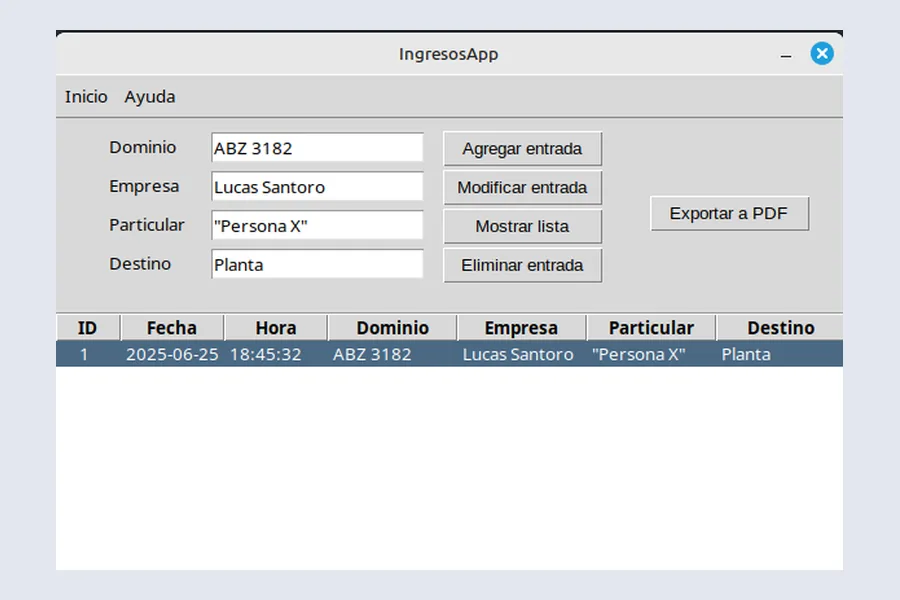
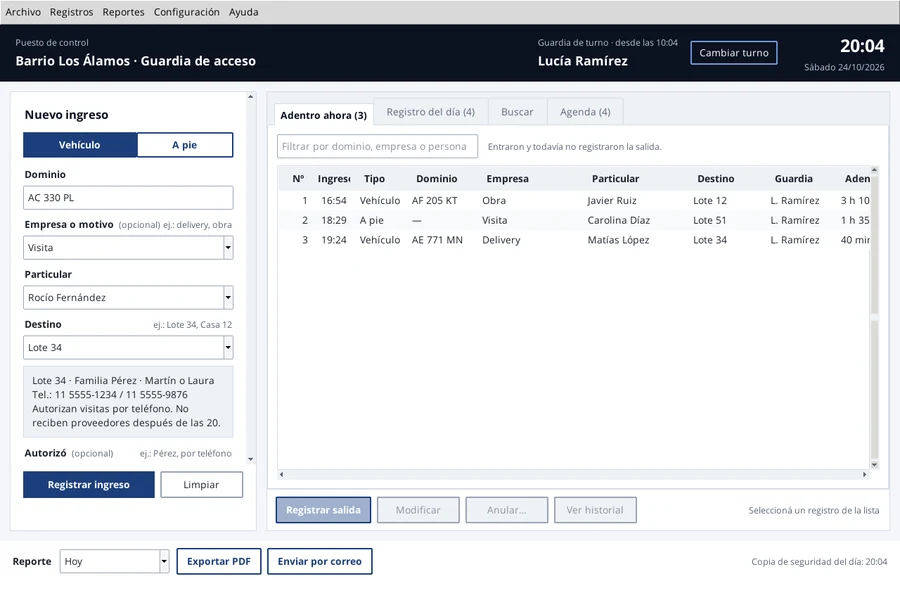
Tarjetas de IngresosApp 2.0, oculto zomboid y texto de Sobre mí

diff --git a/index.html b/index.html
@@ -15,7 +15,7 @@
   <link rel="preconnect" href="https://fonts.googleapis.com" />
   <link rel="preconnect" href="https://fonts.gstatic.com" crossorigin />
   <link href="https://fonts.googleapis.com/css2?family=Open+Sans:wght@300;400;600;700&display=swap" rel="stylesheet" />
-  <link rel="stylesheet" href="styles.css?v=3" />
+  <link rel="stylesheet" href="styles.css?v=4" />
 </head>
 
 <body>
@@ -50,8 +50,8 @@
       <div class="container narrow">
         <h2 id="about-title" class="section-title" data-i18n="about_title">Sobre mí</h2>
         <div class="about-text">
-          <p data-i18n="about_p1">Aprendo tecnología construyendo cosas. La mayor parte de lo que sé viene de proyectos personales: tomo un problema real, armo una solución que funcione, la documento y la sigo mejorando a medida que aprendo.</p>
-          <p data-i18n="about_p2">Hoy estoy enfocado en Python, AWS e infraestructura sobre Linux: desplegar y mantener mis propios servicios, y aprender en el camino las herramientas que los rodean, como Git y Docker.</p>
+          <p data-i18n="about_p1">Aprendo tecnología construyendo cosas. La mayor parte de lo que sé viene de proyectos personales: tomo un problema real, armo una solución funcional, la documento y la sigo mejorando a medida que aprendo.</p>
+          <p data-i18n="about_p2">Hoy estoy enfocado en el cloud computing, sobre todo en AWS, junto con Python y Linux: desplegar y mantener mis propios servicios, y aprender en el camino las herramientas que los rodean, como Git y Docker.</p>
         </div>
       </div>
     </section>
@@ -66,7 +66,8 @@
 
         <div class="project-grid">
 
-          <!-- zomboid-cloud-project -->
+          <!-- zomboid-cloud-project: oculto hasta que el proyecto esté terminado.
+               Para mostrarlo, sacar este comentario y volver a 3 columnas en .project-grid (styles.css).
           <article class="project-card">
             <div class="project-media project-media--placeholder" aria-hidden="true">
               <span>zomboid-cloud-project</span>
@@ -76,39 +77,36 @@
                 <span class="status status--progress" data-i18n="status_progress">En desarrollo</span>
               </div>
               <h3 class="project-title">zomboid-cloud-project</h3>
-              <!-- Descripción y tecnologías: pendientes, a completar cuando el repositorio sea público.
+              [Pendiente: descripción y tecnologías, cuando el repositorio sea público]
               <p class="project-desc"></p>
               <p class="project-tech"><span class="sr-only">Tecnologías: </span></p>
-              -->
               <p class="project-desc project-desc--muted" data-i18n="proj_zomboid_note">Repositorio privado por el momento.</p>
-              <!-- Enlace pendiente:
+              [Pendiente: enlace al repositorio]
               <div class="project-actions">
                 <a class="btn" href="https://github.com/Lucas68747/zomboid-cloud-project" target="_blank" rel="noopener">Repositorio<span class="sr-only"> de zomboid-cloud-project en GitHub</span></a>
               </div>
-              -->
             </div>
           </article>
+          -->
 
           <!-- IngresosApp-Web -->
           <article class="project-card">
             <div class="project-media">
-              <img src="img/projects/ingresosapp-web.webp" alt="Página de inicio de IngresosApp Web, con un carrusel de imágenes y el botón de descarga" width="900" height="600" loading="lazy" decoding="async" />
+              <img src="img/projects/ingresosapp-web.webp" alt="Página de inicio de IngresosApp Web: banner azul noche con la patente V 2.0 y los botones de descarga para Windows y Linux" width="900" height="600" loading="lazy" decoding="async" />
             </div>
             <div class="project-body">
               <div class="project-meta">
-                <span class="status status--progress" data-i18n="status_progress">En desarrollo</span>
+                <span class="status status--done" data-i18n="status_done">Completado</span>
               </div>
               <h3 class="project-title">IngresosApp-Web</h3>
-              <p class="project-desc" data-i18n="proj_web_desc">Sitio web de IngresosApp, con la descarga de la aplicación y su historial de versiones. Desplegado en una instancia EC2 de AWS con Linux, Nginx y Gunicorn.</p>
-              <p class="project-tech"><span class="sr-only">Tecnologías: </span>Python · Flask · Bootstrap · AWS EC2 · Nginx</p>
+              <p class="project-desc" data-i18n="proj_web_desc">Sitio web de IngresosApp, con la descarga de todas las versiones. Empezó en una instancia EC2 de AWS con Nginx y Gunicorn, y lo migré a un sitio estático en GitHub Pages, con dominio propio y DNS en Cloudflare.</p>
+              <p class="project-tech"><span class="sr-only">Tecnologías: </span>HTML · CSS · GitHub Pages · Cloudflare · antes AWS EC2</p>
               <div class="project-actions">
                 <a class="btn" href="https://github.com/Lucas68747/IngresosApp-Web" target="_blank" rel="noopener">
                   <svg class="btn-icon" viewBox="0 0 16 16" aria-hidden="true"><path fill="currentColor" d="M8 0C3.58 0 0 3.58 0 8c0 3.54 2.29 6.53 5.47 7.59.4.07.55-.17.55-.38 0-.19-.01-.82-.01-1.49-2.01.37-2.53-.49-2.69-.94-.09-.23-.48-.94-.82-1.13-.28-.15-.68-.52-.01-.53.63-.01 1.08.58 1.23.82.72 1.21 1.87.87 2.33.66.07-.52.28-.87.51-1.07-1.78-.2-3.64-.89-3.64-3.95 0-.87.31-1.59.82-2.15-.08-.2-.36-1.02.08-2.12 0 0 .67-.21 2.2.82.64-.18 1.32-.27 2-.27.68 0 1.36.09 2 .27 1.53-1.04 2.2-.82 2.2-.82.44 1.1.16 1.92.08 2.12.51.56.82 1.27.82 2.15 0 3.07-1.87 3.75-3.65 3.95.29.25.54.73.54 1.48 0 1.07-.01 1.93-.01 2.2 0 .21.15.46.55.38A8.013 8.013 0 0016 8c0-4.42-3.58-8-8-8z"/></svg>
                   Repositorio<span class="sr-only"> de IngresosApp-Web en GitHub</span>
                 </a>
-                <!-- Sitio fuera de línea (oct. 2026): reactivar cuando vuelva a estar publicado.
                 <a class="btn btn--ghost" href="https://www.ingresosapp.com.ar/" target="_blank" rel="noopener">Sitio web<span class="sr-only"> de IngresosApp</span></a>
-                -->
               </div>
             </div>
           </article>
@@ -116,20 +114,21 @@
           <!-- IngresosApp -->
           <article class="project-card">
             <div class="project-media">
-              <img src="img/projects/ingresosapp.webp" alt="Ventana de IngresosApp con el formulario de carga y la tabla de ingresos registrados" width="900" height="600" loading="lazy" decoding="async" />
+              <img src="img/projects/ingresosapp.webp" alt="Ventana de IngresosApp 2.0 con el formulario de un nuevo ingreso, la ficha de la agenda y la lista de quienes están adentro" width="900" height="600" loading="lazy" decoding="async" />
             </div>
             <div class="project-body">
               <div class="project-meta">
                 <span class="status status--done" data-i18n="status_done">Completado</span>
               </div>
               <h3 class="project-title">IngresosApp</h3>
-              <p class="project-desc" data-i18n="proj_app_desc">Aplicación de escritorio para registrar los ingresos a un predio privado, como un barrio cerrado o un parque industrial. Permite cargar, editar y eliminar registros y exportarlos a PDF.</p>
-              <p class="project-tech"><span class="sr-only">Tecnologías: </span>Python · Tkinter · SQLite · FPDF</p>
+              <p class="project-desc" data-i18n="proj_app_desc">Aplicación de escritorio para registrar ingresos y salidas en barrios cerrados, parques industriales y otros predios. Guardia de turno, agenda, historial sin borrados, reportes en PDF y envío por correo. Se compila y publica con GitHub Actions.</p>
+              <p class="project-tech"><span class="sr-only">Tecnologías: </span>Python · Tkinter · SQLite · fpdf2 · GitHub Actions</p>
               <div class="project-actions">
                 <a class="btn" href="https://github.com/Lucas68747/IngresosApp" target="_blank" rel="noopener">
                   <svg class="btn-icon" viewBox="0 0 16 16" aria-hidden="true"><path fill="currentColor" d="M8 0C3.58 0 0 3.58 0 8c0 3.54 2.29 6.53 5.47 7.59.4.07.55-.17.55-.38 0-.19-.01-.82-.01-1.49-2.01.37-2.53-.49-2.69-.94-.09-.23-.48-.94-.82-1.13-.28-.15-.68-.52-.01-.53.63-.01 1.08.58 1.23.82.72 1.21 1.87.87 2.33.66.07-.52.28-.87.51-1.07-1.78-.2-3.64-.89-3.64-3.95 0-.87.31-1.59.82-2.15-.08-.2-.36-1.02.08-2.12 0 0 .67-.21 2.2.82.64-.18 1.32-.27 2-.27.68 0 1.36.09 2 .27 1.53-1.04 2.2-.82 2.2-.82.44 1.1.16 1.92.08 2.12.51.56.82 1.27.82 2.15 0 3.07-1.87 3.75-3.65 3.95.29.25.54.73.54 1.48 0 1.07-.01 1.93-.01 2.2 0 .21.15.46.55.38A8.013 8.013 0 0016 8c0-4.42-3.58-8-8-8z"/></svg>
                   Repositorio<span class="sr-only"> de IngresosApp en GitHub</span>
                 </a>
+                <a class="btn btn--ghost" href="https://www.ingresosapp.com.ar/#descargas" target="_blank" rel="noopener">Descargar<span class="sr-only"> IngresosApp</span></a>
               </div>
             </div>
           </article>
@@ -173,28 +172,28 @@
     const translations = {
       es: {
         about_title: "Sobre mí",
-        about_p1: "Aprendo tecnología construyendo cosas. La mayor parte de lo que sé viene de proyectos personales: tomo un problema real, armo una solución que funcione, la documento y la sigo mejorando a medida que aprendo.",
-        about_p2: "Hoy estoy enfocado en Python, AWS e infraestructura sobre Linux: desplegar y mantener mis propios servicios, y aprender en el camino las herramientas que los rodean, como Git y Docker.",
+        about_p1: "Aprendo tecnología construyendo cosas. La mayor parte de lo que sé viene de proyectos personales: tomo un problema real, armo una solución funcional, la documento y la sigo mejorando a medida que aprendo.",
+        about_p2: "Hoy estoy enfocado en el cloud computing, sobre todo en AWS, junto con Python y Linux: desplegar y mantener mis propios servicios, y aprender en el camino las herramientas que los rodean, como Git y Docker.",
         projects_title: "Proyectos",
         projects_intro: "Proyectos personales en los que trabajé o estoy trabajando. El código y la documentación de cada uno están en GitHub.",
         status_progress: "En desarrollo",
         status_done: "Completado",
         proj_zomboid_note: "Repositorio privado por el momento.",
-        proj_web_desc: "Sitio web de IngresosApp, con la descarga de la aplicación y su historial de versiones. Desplegado en una instancia EC2 de AWS con Linux, Nginx y Gunicorn.",
-        proj_app_desc: "Aplicación de escritorio para registrar los ingresos a un predio privado, como un barrio cerrado o un parque industrial. Permite cargar, editar y eliminar registros y exportarlos a PDF.",
+        proj_web_desc: "Sitio web de IngresosApp, con la descarga de todas las versiones. Empezó en una instancia EC2 de AWS con Nginx y Gunicorn, y lo migré a un sitio estático en GitHub Pages, con dominio propio y DNS en Cloudflare.",
+        proj_app_desc: "Aplicación de escritorio para registrar ingresos y salidas en barrios cerrados, parques industriales y otros predios. Guardia de turno, agenda, historial sin borrados, reportes en PDF y envío por correo. Se compila y publica con GitHub Actions.",
         footer_findme: "Encontrame en:"
       },
       en: {
         about_title: "About me",
-        about_p1: "I learn technology by building things. Most of what I know comes from personal projects: I take a real problem, build a solution that works, document it and keep improving it as I learn.",
-        about_p2: "Right now I'm focused on Python, AWS and Linux-based infrastructure: deploying and running my own services, and learning the tools around them along the way, such as Git and Docker.",
+        about_p1: "I learn technology by building things. Most of what I know comes from personal projects: I take a real problem, build a working solution, document it and keep improving it as I learn.",
+        about_p2: "Right now I'm focused on cloud computing, especially AWS, along with Python and Linux: deploying and running my own services, and learning the tools around them along the way, such as Git and Docker.",
         projects_title: "Projects",
         projects_intro: "Personal projects I've worked on or am working on. The code and documentation for each one are on GitHub.",
         status_progress: "In progress",
         status_done: "Completed",
         proj_zomboid_note: "Private repository for now.",
-        proj_web_desc: "Website for IngresosApp, with the app download and its version history. Deployed on an AWS EC2 instance with Linux, Nginx and Gunicorn.",
-        proj_app_desc: "Desktop app to log entries to a private property, such as a gated community or an industrial park. It lets you add, edit and delete records and export them to PDF.",
+        proj_web_desc: "Website for IngresosApp, with downloads for every version. It started on an AWS EC2 instance with Nginx and Gunicorn, and I migrated it to a static site on GitHub Pages, with its own domain and DNS on Cloudflare.",
+        proj_app_desc: "Desktop app to log entries and exits at gated communities, industrial parks and other private sites. Guard shifts, a contact book, history with no deletions, PDF reports and email delivery. Built and released with GitHub Actions.",
         footer_findme: "Find me on:"
       }
     };

diff --git a/styles.css b/styles.css
@@ -169,8 +169,9 @@ button:focus-visible {
   .project-grid { grid-template-columns: repeat(2, 1fr); }
 }
 
+/* Con dos proyectos visibles: dos columnas centradas. Con tres, volver a repeat(3, 1fr) sin max-width. */
 @media (min-width: 1000px) {
-  .project-grid { grid-template-columns: repeat(3, 1fr); gap: 28px; }
+  .project-grid { gap: 28px; max-width: 880px; margin-inline: auto; }
 }
 
 .project-card {
